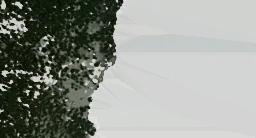
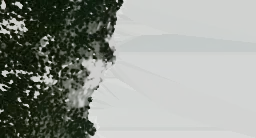
fix(terrain): Rubicon's cliffs read granite, not the canopy the photo saw from above
build_naip.py gains a region option, cliffs: from the first slope to the second (a smoothstep on the level's own DEM) the photo
fades to the terrain's granite colour (ALBEDO.rock) at the brightness of the level's bare rock, with the bare class in alpha. Rubicon
takes 32-42 deg (its 4 m DEM reads the granite faces at a median 39 deg); 2.2 % of its land. The bay's and South Lake's photos are
not rebuilt.

diff --git a/tools/ground/build_naip.py b/tools/ground/build_naip.py
@@ -32,7 +32,15 @@ SATURATION = 1.2   # NAIP's high-sun frame is greyer than the ground seen from t
 # albedo targets (linear luminance). The world is exposed so ground reads about 6.5 x its albedo.
 TARGET = dict(forest=0.0105, brush=0.0185, bare=0.040, sand=0.30)
 PLAN = {'bay': dict(texel=1, tiers=[1, 2, 4]), 'region': dict(texel=16, tiers=[16, 32, 64]),
-        'south': dict(texel=4, tiers=[4, 8]), 'rubicon': dict(texel=4, tiers=[4, 8])}   # the south region (4 m desktop, 8 m phones): de-lit on its own 4 m DEM
+        'south': dict(texel=4, tiers=[4, 8]), 'rubicon': dict(texel=4, tiers=[4, 8], cliffs=(32.0, 42.0))}   # the south region (4 m desktop, 8 m phones): de-lit on its own 4 m DEM
+# cliffs (a region level's option, rubicon's): from the first slope to the second (degrees, on the level's own DEM, a smoothstep) the
+# photo fades to granite: the terrain's granite colour (GRANITE) at the brightness of the level's own bare rock, and the bare class
+# in alpha. Rubicon's ramp is 32-42 deg: its 4 m DEM reads the granite faces at a median 39 deg (10-90 %: 22-55), so
+# 35-45 left them a third granite. Seen from above, a steep granite face shows the canopy of the trees on its ledges and at its foot; the game
+# stands no tree there (src/forest/rules.js: the stand thins past 38 deg, the cover's rock clears it from 40), so that canopy painted
+# the faces a teal green under the rock look
+
+GRANITE = np.array([0.20, 0.19, 0.165], np.float32)   # the terrain's granite (v2/render/terrain.js ALBEDO.rock, linear): the cliffs' colour, scaled
 
 def srgb2lin(v):
     v = v / 255.0
@@ -61,7 +69,7 @@ def cast_shadow(dem, texel, maxd=2500.0):
         d *= 1.25
     return shade
 
-def process(level, texel, raw, work, lv):
+def process(level, texel, raw, work, lv, cliffs=None):
     L = LEVELS[level]
     cache = os.path.join(work, f'rgbn_{level}_{texel:g}m.npy')
     if os.path.exists(cache): d = np.load(cache)
@@ -110,6 +118,19 @@ def process(level, texel, raw, work, lv):
     rgb *= g[None]
     Lg = lum(rgb)
     rgb = np.maximum(Lg[None] + (rgb - Lg[None]) * SATURATION, 0)
+    # --- cliffs: granite past the plan's slopes (a region option) --------------------------------------------------------
+    cliff = None
+    if cliffs:
+        cz, cx = np.gradient(ndimage.gaussian_filter(dem, 0.7), texel)
+        deg = np.degrees(np.arctan(np.hypot(cx, cz)))
+        cliff = (smooth(cliffs[0], cliffs[1], deg) * landw).astype(np.float32)
+        rock = sel & (W['bare'] > 0.6) & (cliff < 0.05)
+        Lrock = float(np.median(lum(rgb)[rock])) if rock.sum() > 50 else TARGET['bare']   # the level's own bare rock's brightness
+        gran = GRANITE * (Lrock / float(lum(GRANITE[:, None, None])[0, 0]))                # in the terrain's granite colour (v2/render/terrain.js ALBEDO.rock)
+        shade = np.clip(lum(rgb) / Lrock, 0.8, 1.2)                                       # a little of the photo's light and dark kept
+        rgb = rgb * (1 - cliff)[None] + (gran[:, None, None] * shade[None]) * cliff[None]
+        for k in ('forest', 'brush', 'sand'): W[k] = W[k] * (1 - cliff)
+        W['bare'] = W['bare'] * (1 - cliff) + cliff
     # --- water: the nearest land colour ---------------------------------------------------------------------------------
     wm = water > 0.5
     if wm.any() and (~wm).any():
@@ -117,7 +138,7 @@ def process(level, texel, raw, work, lv):
         rgb = rgb[:, idx[0], idx[1]]
     info = dict(level=level, texel=texel, w=int(w), h=int(h), median_before=med, targets=TARGET,
                 gain_class={k: (TARGET[k] / med[k] if med[k] else None) for k in W}, p10=float(p10),
-                share={k: float((W[k][sel]).mean()) for k in W})
+                share={k: float((W[k][sel]).mean()) for k in W}, **({'cliffs': dict(slopes=list(cliffs), share=float(cliff[sel].mean()))} if cliffs else {}))
     return rgb, W, dem, info
 
 def save_webp(rgb_lin, path, q=80, alpha=None):
@@ -143,7 +164,7 @@ if __name__ == '__main__':
     for name in a.levels.split(','):
         P = PLAN[name]
         man, lv = lsh.load(os.path.join(REPO, 'terrain'), (name,) if name in REGION_LEVELS else ())
-        rgb, W, dem, info = process(name, P['texel'], a.raw, a.work, lv)
+        rgb, W, dem, info = process(name, P['texel'], a.raw, a.work, lv, P.get('cliffs'))
         info['files'] = {}
         for k in P['tiers']:
             f = k // P['texel']
